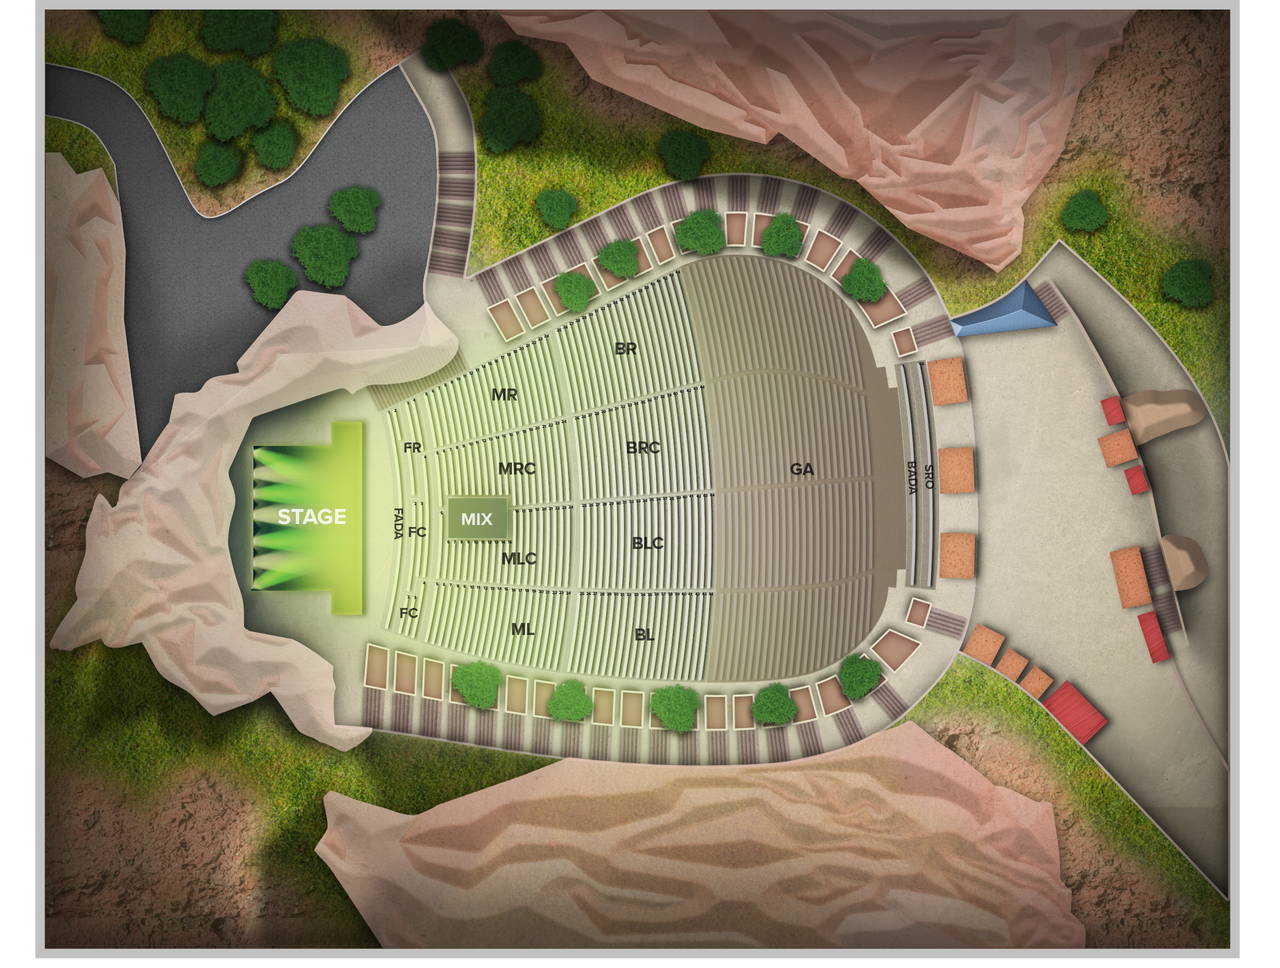
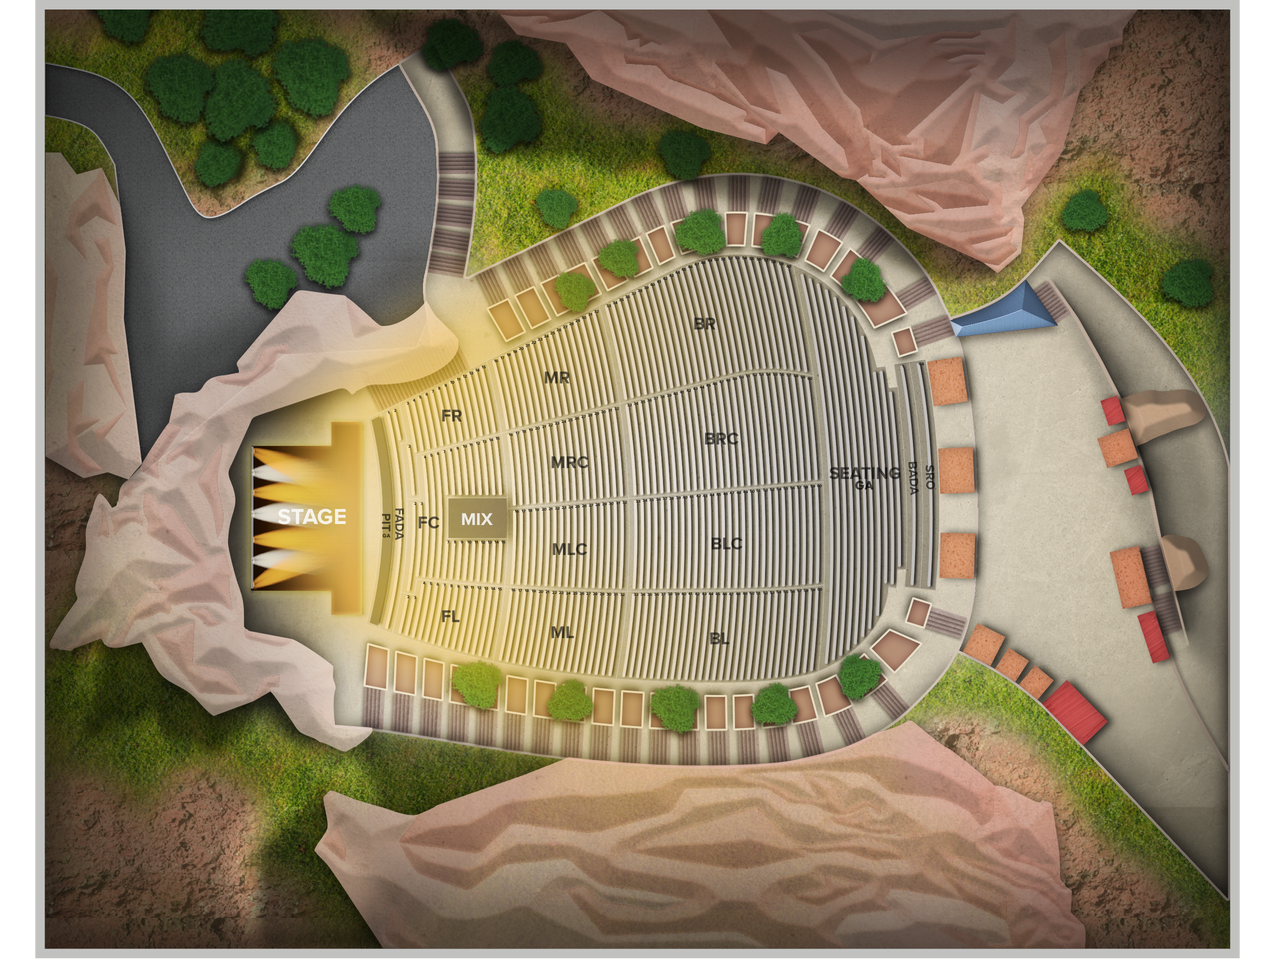
Update section labels and fix mobile image slideout
- Fix mobile image modal: add min-height and explicit width
- Update section codes to match stadium layout:
  - GA1 → Pit GA
  - GA2 → Seating GA
  - L → ML (Middle Left)
  - CL → MLC (Middle Left Center)
  - CR → MRC (Middle Right Center)
  - R → MR (Middle Right)
  - BCL → BLC (Back Left Center)
  - BCR → BRC (Back Right Center)
- Update admin page section ordering (Pit GA → Front → Middle → Back → GA → SRO)
- Update local photo mappings for new section codes
- Create database migration SQL script

Changed region(s): [[0.1562, 0.2479, 0.7188, 0.7748]]

diff --git a/app/page.tsx b/app/page.tsx
@@ -42,11 +42,11 @@ export default function HomePage() {
   function getLocalPhotoUrl(sectionCode: string): string | null {
     const mapping: Record<string, string> = {
       'BL': '/sections/back-left.jpeg',
-      'BCL': '/sections/back-left-center.jpeg',
-      'BCR': '/sections/back-right-center.jpeg',
+      'BLC': '/sections/back-left-center.jpeg',
+      'BRC': '/sections/back-right-center.jpeg',
       'BR': '/sections/back-right.jpeg',
-      'GA1': '/sections/general-admission.jpeg',
-      'GA2': '/sections/general-admission.jpeg',
+      'Pit GA': '/sections/general-admission.jpeg',
+      'Seating GA': '/sections/general-admission.jpeg',
       'SRO': '/sections/general-admission.jpeg',
     }
     return mapping[sectionCode] || null
@@ -456,7 +456,7 @@ export default function HomePage() {
               <p className="text-sm text-gray-400 mb-4">Red Rocks Amphitheatre</p>
 
               {/* Large Image */}
-              <div className="relative aspect-video bg-gray-800 rounded-lg overflow-hidden mb-4">
+              <div className="relative w-full aspect-video min-h-[200px] bg-gray-800 rounded-lg overflow-hidden mb-4">
                 {selectedSection.display_image_url ? (
                   <Image
                     src={selectedSection.display_image_url}
@@ -465,7 +465,6 @@ export default function HomePage() {
                     className="object-cover"
                     unoptimized={selectedSection.display_image_url.startsWith('data:')}
                     sizes="(max-width: 768px) 100vw, 600px"
-                    priority
                   />
                 ) : (
                   <div className="absolute inset-0 flex items-center justify-center text-gray-600">

diff --git a/app/admin/page.tsx b/app/admin/page.tsx
@@ -53,11 +53,11 @@ type GeneratedImage = {
 function getLocalPhotoUrl(sectionCode: string): string | null {
   const mapping: Record<string, string> = {
     'BL': '/sections/back-left.jpeg',
-    'BCL': '/sections/back-left-center.jpeg',
-    'BCR': '/sections/back-right-center.jpeg',
+    'BLC': '/sections/back-left-center.jpeg',
+    'BRC': '/sections/back-right-center.jpeg',
     'BR': '/sections/back-right.jpeg',
-    'GA1': '/sections/general-admission.jpeg',
-    'GA2': '/sections/general-admission.jpeg',
+    'Pit GA': '/sections/general-admission.jpeg',
+    'Seating GA': '/sections/general-admission.jpeg',
     'SRO': '/sections/general-admission.jpeg',
   }
   return mapping[sectionCode] || null
@@ -66,16 +66,22 @@ function getLocalPhotoUrl(sectionCode: string): string | null {
 // Sort sections from front to back
 function sortSectionsFrontToBack(sections: Section[]): Section[] {
   // Define sort priority: lower numbers = closer to front
+  // Order: Pit GA → FC → FR → FL → MR → MRC → MLC → ML → BR → BRC → BLC → BL → Seating GA → SRO
   const sectionPriority: Record<string, number> = {
-    // Reserved rows (front to back by row number)
-    // General admission and back sections last
-    'BL': 900,
-    'BCL': 901,
-    'BCR': 902,
-    'BR': 903,
-    'GA1': 1000,
-    'GA2': 1001,
-    'SRO': 1002,
+    'Pit GA': 1,
+    'FC': 2,
+    'FR': 3,
+    'FL': 4,
+    'MR': 5,
+    'MRC': 6,
+    'MLC': 7,
+    'ML': 8,
+    'BR': 9,
+    'BRC': 10,
+    'BLC': 11,
+    'BL': 12,
+    'Seating GA': 13,
+    'SRO': 14,
   }
 
   return sections.sort((a, b) => {
